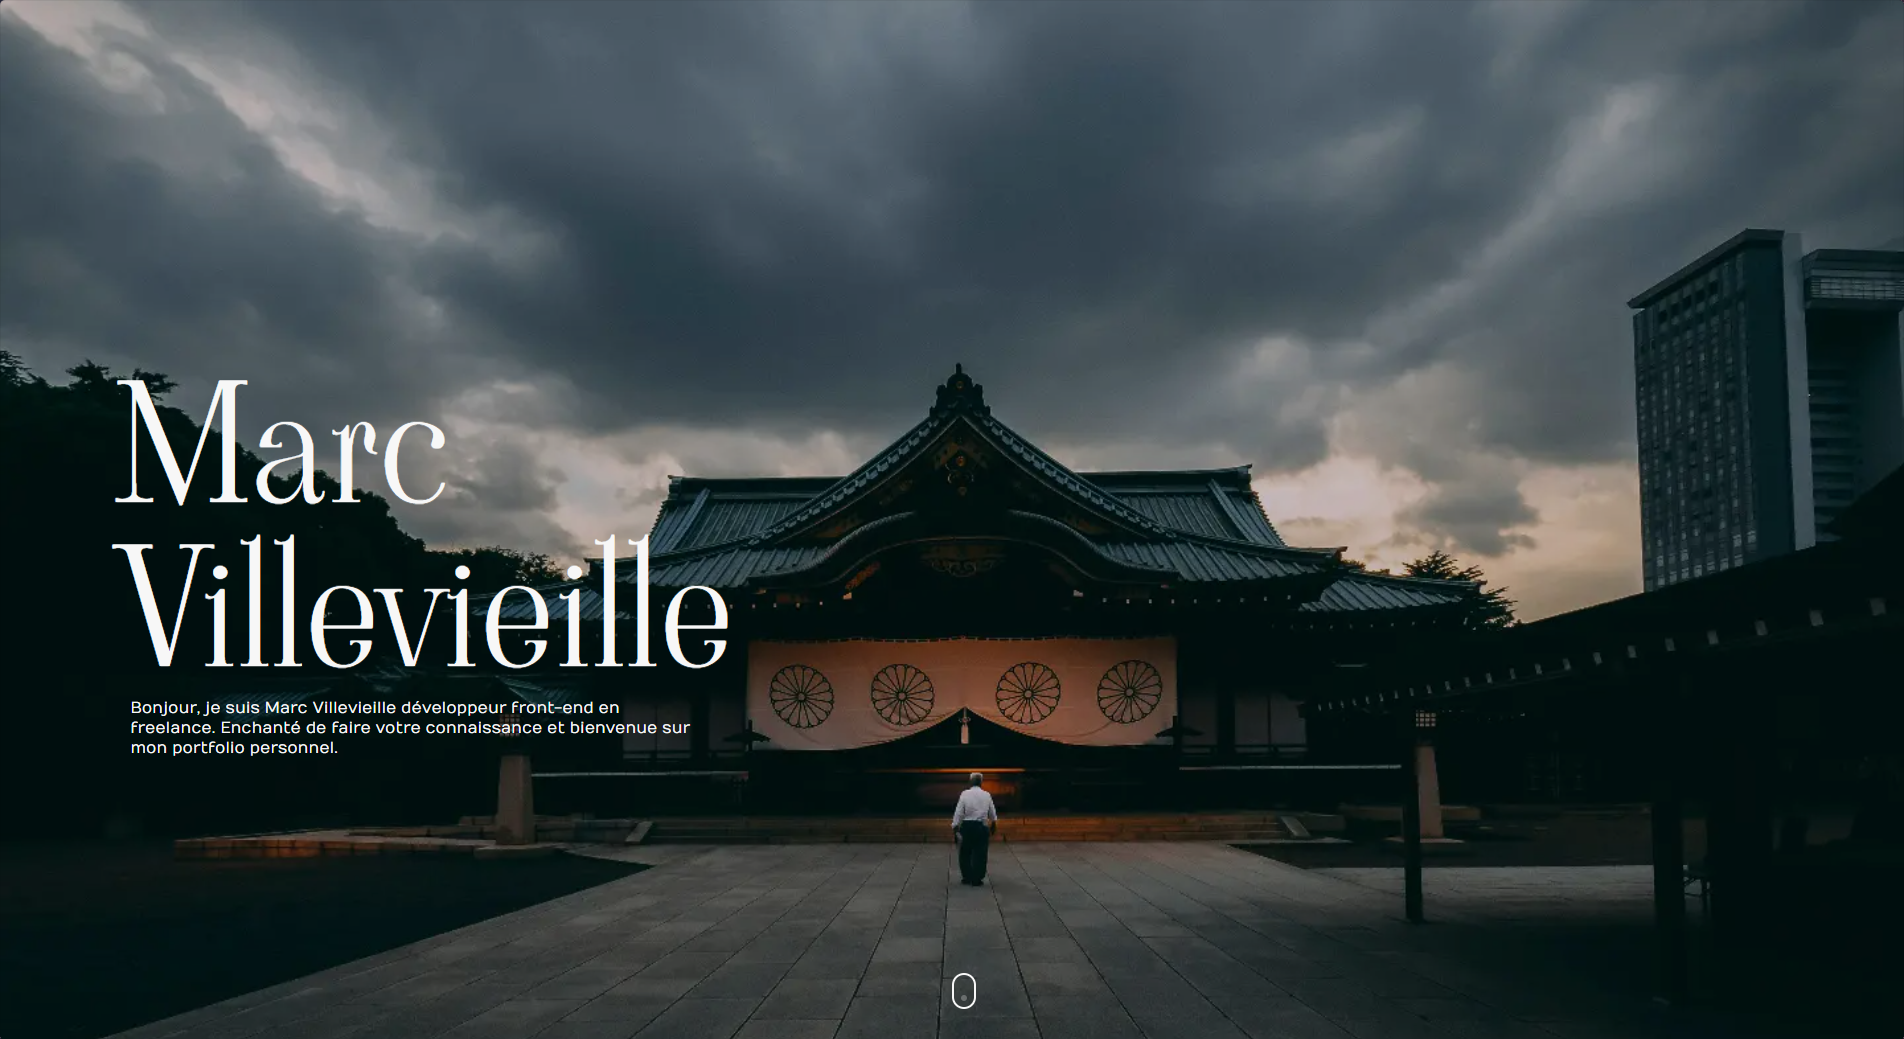
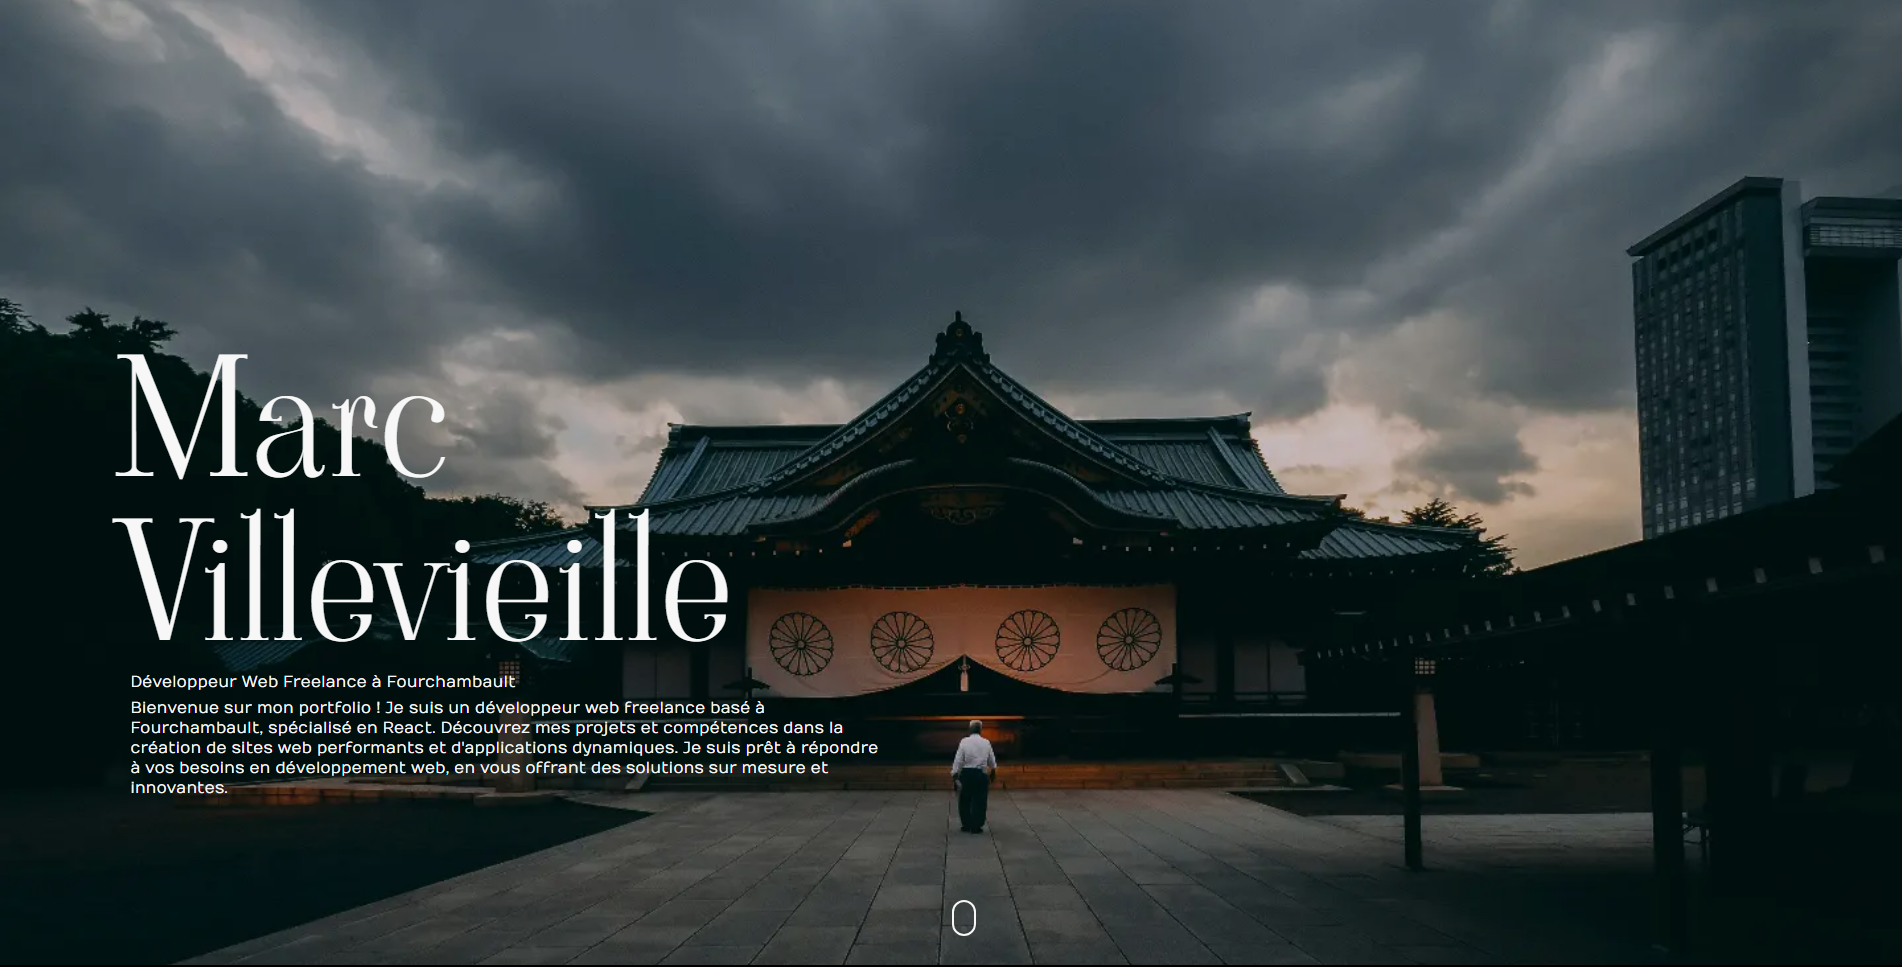
chore: Update project files and styles

diff --git a/app/layout.jsx b/app/layout.jsx
@@ -1,5 +1,3 @@
-import Footer from '@/app/layout/Footer';
-import Header from '@/app/layout/Header';
 import { numans } from '@/app/ui/fonts';
 import '@/app/ui/globals.css';
 import { config } from '@fortawesome/fontawesome-svg-core';
@@ -7,28 +5,33 @@ import '@fortawesome/fontawesome-svg-core/styles.css';
 import { Analytics } from '@vercel/analytics/react';
 import { SpeedInsights } from '@vercel/speed-insights/next';
 import Script from 'next/script';
+import Footer from './ui/Footer';
+import Header from './ui/Header';
 config.autoAddCss = false;
 
 export const metadata = {
-	title: 'Marc VILLEVIEILLE - Développeur Front-End',
+	title: 'Marc VILLEVIEILLE | Développeur Web Freelance à Fourchambault | Spécialiste React',
 	description:
-		"Marc VILLEVIEILLE, développeur front-end en freelance. Spécialisé en React pour la création de sites web et d'applications web. Enchanté de faire votre connaissance et bienvenue sur mon portfolio personnel.",
+		"Marc VILLEVIEILLE est un développeur web freelance basé à Fourchambault, spécialisé en React. Découvrez ses projets et compétences en création de sites web et d'applications dynamiques.",
+	keywords:
+		"développeur web freelance, développeur web Fourchambault, spécialiste React, création de sites web, développement d'applications, freelance développeur web",
 	openGraph: {
-		title: 'Marc VILLEVIEILLE - Développeur Front-End en freelance',
+		title: 'Marc VILLEVIEILLE | Développeur Web Freelance à Fourchambault | Spécialiste React',
 		type: 'website',
-		siteName: 'Marc VILLEVIEILLE - Développeur Front-End',
+		siteName:
+			'Marc VILLEVIEILLE | Développeur Web Freelance à Fourchambault | Spécialiste React',
 		url: 'https://marc-villevieille.com',
 		description:
-			"Marc VILLEVIEILLE, développeur front-end en freelance. Spécialisé en React pour la création de sites web et d'applications web. Enchanté de faire votre connaissance et bienvenue sur mon portfolio personnel.",
+			"Marc VILLEVIEILLE est un développeur web freelance basé à Fourchambault, spécialisé en React. Découvrez ses projets et compétences en création de sites web et d'applications dynamiques.",
 		images: 'https://marc-villevieille.com/img/opengraph-image.png',
 	},
 	twitter: {
-		title: 'Marc VILLEVIEILLE - Développeur Front-End',
+		title: 'Marc VILLEVIEILLE | Développeur Web Freelance à Fourchambault | Spécialiste React',
 		cardType: 'summary_large_image',
 		site: '@Naohyo_',
 		url: 'https://marc-villevieille.com',
 		description:
-			"Marc VILLEVIEILLE, développeur front-end en freelance. Spécialisé en React pour la création de sites web et d'applications web. Enchanté de faire votre connaissance et bienvenue sur mon portfolio personnel.",
+			"Marc VILLEVIEILLE est un développeur web freelance basé à Fourchambault, spécialisé en React. Découvrez ses projets et compétences en création de sites web et d'applications dynamiques.",
 		image: 'https://marc-villevieille.com/img/twitter-image.png',
 	},
 };
@@ -39,7 +42,7 @@ const jsonLd = {
 	name: 'Marc VILLEVIEILLE',
 	image: 'https://marc-villevieille.com/img/opengraph-imapge.png',
 	description:
-		"Développeur front-end en freelance. Spécialisé en React pour la création de sites web et d'applications web.",
+		"Marc VILLEVIEILLE est un développeur web freelance basé à Fourchambault, spécialisé en React. Découvrez ses projets et compétences en création de sites web et d'applications dynamiques.",
 	telephone: '+33 6 98 29 20 20',
 	email: 'marc.villevieille.contact@gmail.com',
 	address: {
@@ -79,9 +82,8 @@ export default function RootLayout({ children }) {
 				<div className="m-auto box-border min-h-screen">
 					<Header
 						title="Marc Villevieille"
-						description="Bonjour, je suis Marc Villevieille développeur front-end en
-					freelance. Enchanté de faire votre connaissance et bienvenue
-					sur mon portfolio personnel."
+						description="Développeur Web Freelance à Fourchambault"
+						promesse="Bienvenue sur mon portfolio ! Je suis un développeur web freelance basé à Fourchambault, spécialisé en React. Découvrez mes projets et compétences dans la création de sites web performants et d'applications dynamiques. Je suis prêt à répondre à vos besoins en développement web, en vous offrant des solutions sur mesure et innovantes."
 					/>
 					<main>
 						{children}

diff --git a/app/ui/homepage/ProjectList.jsx b/app/ui/homepage/ProjectList.jsx
@@ -1,5 +1,5 @@
 'use client';
-import ProjetsData from '@/app/data/projects';
+import ProjectsData from '@/app/lib/projects';
 import { useState } from 'react';
 import Button from './Button';
 import Card from './Card';
@@ -19,14 +19,14 @@ export default function ProjectList() {
 	};
 
 	const showAllProjects = () => {
-		setNumProjectsToShow(ProjetsData.length);
+		setNumProjectsToShow(ProjectsData.length);
 		setShowMoreClicked(true);
 	};
 
 	return (
 		<>
 			<div className="grid grid-cols-1 gap-8 md:grid-cols-2">
-				{ProjetsData.slice(0, numProjectsToShow).map(
+				{ProjectsData.slice(0, numProjectsToShow).map(
 					(project, index) => (
 						<Card
 							key={project.id}
@@ -39,7 +39,7 @@ export default function ProjectList() {
 				)}
 			</div>
 			<Modal selectedProject={selectedProject} closeModal={closeModal} />
-			{numProjectsToShow < ProjetsData.length && (
+			{numProjectsToShow < ProjectsData.length && (
 				<Button
 					className="mx-auto mb-0 mt-7 cursor-pointer rounded bg-sunny px-4 py-2 text-xs font-medium uppercase text-darken shadow-md transition-all duration-500 hover:-translate-y-1 hover:shadow-xl md:text-sm lg:text-base"
 					onClick={showAllProjects}

diff --git a/app/ui/Header.jsx b/app/ui/Header.jsx
@@ -1,10 +1,10 @@
 /* eslint-disable react/no-unescaped-entities */
 import { viaodaLibre } from '@/app/ui/fonts';
-import Navbar from '../components/Navbar';
-import Overlay from '../ui/Overlay';
-import Scroller from '../ui/Scroller';
+import Overlay from './Overlay';
+import Scroller from './Scroller';
+import Navbar from './homepage/Navbar';
 
-export default function Header({ title, description }) {
+export default function Header({ title, description, promesse }) {
 	return (
 		<header className="relative h-screen bg-darken bg-hero bg-cover bg-scroll bg-50-70 bg-no-repeat lg:bg-fixed">
 			<Overlay />
@@ -15,8 +15,11 @@ export default function Header({ title, description }) {
 				>
 					{title}
 				</h1>
-				<p className="ml-4 w-5/6 text-base font-normal leading-5 sm:w-4/5 lg:w-3/5">
+				<p className="ml-4 w-5/6 text-base font-normal leading-5 sm:w-4/5 lg:w-4/5">
 					{description}
+				</p>
+				<p className="ml-4 w-5/6 text-base font-normal leading-5 sm:w-4/5 lg:w-4/5">
+					{promesse}
 				</p>
 			</div>
 			<Scroller />

diff --git a/app/ui/homepage/About.jsx b/app/ui/homepage/About.jsx
@@ -13,9 +13,9 @@ export default function About() {
 				<h2
 					className={`${viaodaLibre.className} p-1 text-center text-3xl font-normal lg:text-4xl`}
 				>
-					À propos
+					À propos de moi
 				</h2>
-				<AboutText text="Développeur frontend passionné par la création d'expériences utilisateur engageantes et intuitives. Spécialisé en React je transforme vos idées en interfaces élégantes et performantes." />
+				<AboutText text="Je m'appelle Marc VILLEVIEILLE et je suis un développeur web freelance basé à Fourchambault. Je me spécialise dans le développement de sites web et d'applications utilisant React." />
 				<AboutText text="Mon expertise inclut la conception de wireframes, le développement d'interfaces pixel-perfect, et l'optimisation SEO pour garantir des performances optimales. Engagé à fournir un code propre et efficient, je m'efforce de dépasser vos attentes et de contribuer au succès de vos projets web." />
 				<SocialLinks />
 			</div>

diff --git a/app/ui/homepage/Services.jsx b/app/ui/homepage/Services.jsx
@@ -24,7 +24,7 @@ export default function Services() {
 							/>
 						}
 						title="Développement d'Applications Web"
-						description="Création et développement d'applications web front-end et de sites vitrines. Je transforme vos idées en interfaces utilisateurs réactives et intuitives."
+						description="Création de sites web et développement d'applications avec React. Je transforme vos idées en interfaces utilisateurs réactives et intuitives."
 						tags={[
 							'HTML',
 							'CSS',
@@ -47,7 +47,7 @@ export default function Services() {
 								className="absolute -top-14 rounded-full bg-cherry-blossom p-9 text-4xl"
 							/>
 						}
-						title="SEO"
+						title="Optimisation de sites web"
 						description="Amélioration du référencement naturel de votre site par l'optimisation du contenu, de la structure du site, de l'accessibilité et de la performance."
 						subtitle="Outils utilités"
 						tags={[

diff --git a/app/ui/homepage/Contact.jsx b/app/ui/homepage/Contact.jsx
@@ -1,4 +1,5 @@
-import { viaodaLibre } from '../ui/fonts';
+/* eslint-disable react/no-unescaped-entities */
+import { viaodaLibre } from '../fonts';
 import ContactForm from './ContactForm';
 
 export default function Contact() {
@@ -10,8 +11,13 @@ export default function Contact() {
 			<h2
 				className={`${viaodaLibre.className} p-1 text-center text-3xl lg:text-4xl`}
 			>
-				Me Contacter
+				Contactez-moi
 			</h2>
+			<p className="p-1 text-center text-sm font-normal text-darken/70 sm:m-auto sm:w-4/5 lg:w-3/5 lg:text-base">
+				Vous avez un projet en tête ou besoin de mes services en
+				développement web ? N'hésitez pas à me contacter pour en
+				discuter.
+			</p>
 			<div className="flex justify-center">
 				<ContactForm />
 			</div>

diff --git a/app/page.jsx b/app/page.jsx
@@ -1,9 +1,9 @@
-import About from '@/app/components/About';
-import Contact from '@/app/components/Contact';
-import Projects from '@/app/components/Projects';
-import Services from '@/app/components/Services';
 import BackToTop from './ui/BackToTop';
 import Underline from './ui/Underline';
+import About from './ui/homepage/About';
+import Contact from './ui/homepage/Contact';
+import Projects from './ui/homepage/Projects';
+import Services from './ui/homepage/Services';
 
 export default function Homepage() {
 	return (

diff --git a/app/ui/Logo.jsx b/app/ui/Logo.jsx
@@ -4,10 +4,10 @@ export default function Logo() {
 	return (
 		<Image
 			className="flex size-12 select-none items-center"
-			src="/img/marc_villevieille_logo.webp"
+			src="/img/marc_villevieille_developpeur_web_freelance_fourchambault_logo.webp"
 			width={50}
 			height={50}
-			alt="Logo de Marc Villevieille"
+			alt="Logo de Marc Villevieille développeur web freelance basé à Fourchambault"
 		/>
 	);
 }

diff --git a/app/ui/homepage/Projects.jsx b/app/ui/homepage/Projects.jsx
@@ -1,4 +1,4 @@
-import { viaodaLibre } from '../ui/fonts';
+import { viaodaLibre } from '../fonts';
 import ProjectList from './ProjectList';
 
 export default function Projects() {
@@ -10,7 +10,7 @@ export default function Projects() {
 			<h2
 				className={`${viaodaLibre.className} p-1 text-center text-3xl lg:text-4xl`}
 			>
-				Réalisations
+				Mes Réalisations
 			</h2>
 			<ProjectList />
 		</section>

diff --git a/app/ui/homepage/Modal.jsx b/app/ui/homepage/Modal.jsx
@@ -2,7 +2,7 @@ import { faX } from '@fortawesome/free-solid-svg-icons';
 import { FontAwesomeIcon } from '@fortawesome/react-fontawesome';
 import Image from 'next/image';
 import Link from 'next/link';
-import { viaodaLibre } from '../ui/fonts';
+import { viaodaLibre } from '../fonts';
 
 export default function Modal({ selectedProject, closeModal }) {
 	if (!selectedProject) return null;

diff --git a/app/ui/homepage/Navbar.jsx b/app/ui/homepage/Navbar.jsx
@@ -3,7 +3,7 @@ import { faBars, faEnvelope, faXmark } from '@fortawesome/free-solid-svg-icons';
 import { FontAwesomeIcon } from '@fortawesome/react-fontawesome';
 import Link from 'next/link';
 import { useCallback, useEffect, useState } from 'react';
-import Logo from './Logo';
+import Logo from '../Logo';
 import NavItem from './NavItem';
 
 export default function Navbar() {

diff --git a/tailwind.config.js b/tailwind.config.js
@@ -23,7 +23,7 @@ module.exports = {
 				'modal-overlay': 'rgba(49, 49, 49, 0.8)',
 			},
 			backgroundImage: {
-				hero: "url('/img/japanese_temple_with_a_man_standing_in_front_of.webp')",
+				hero: "url('/img/marc_villevieille_developpeur_web_freelance_fourchambault_background.webp')",
 			},
 			backgroundPosition: {
 				'50-70': '50% 70%',
